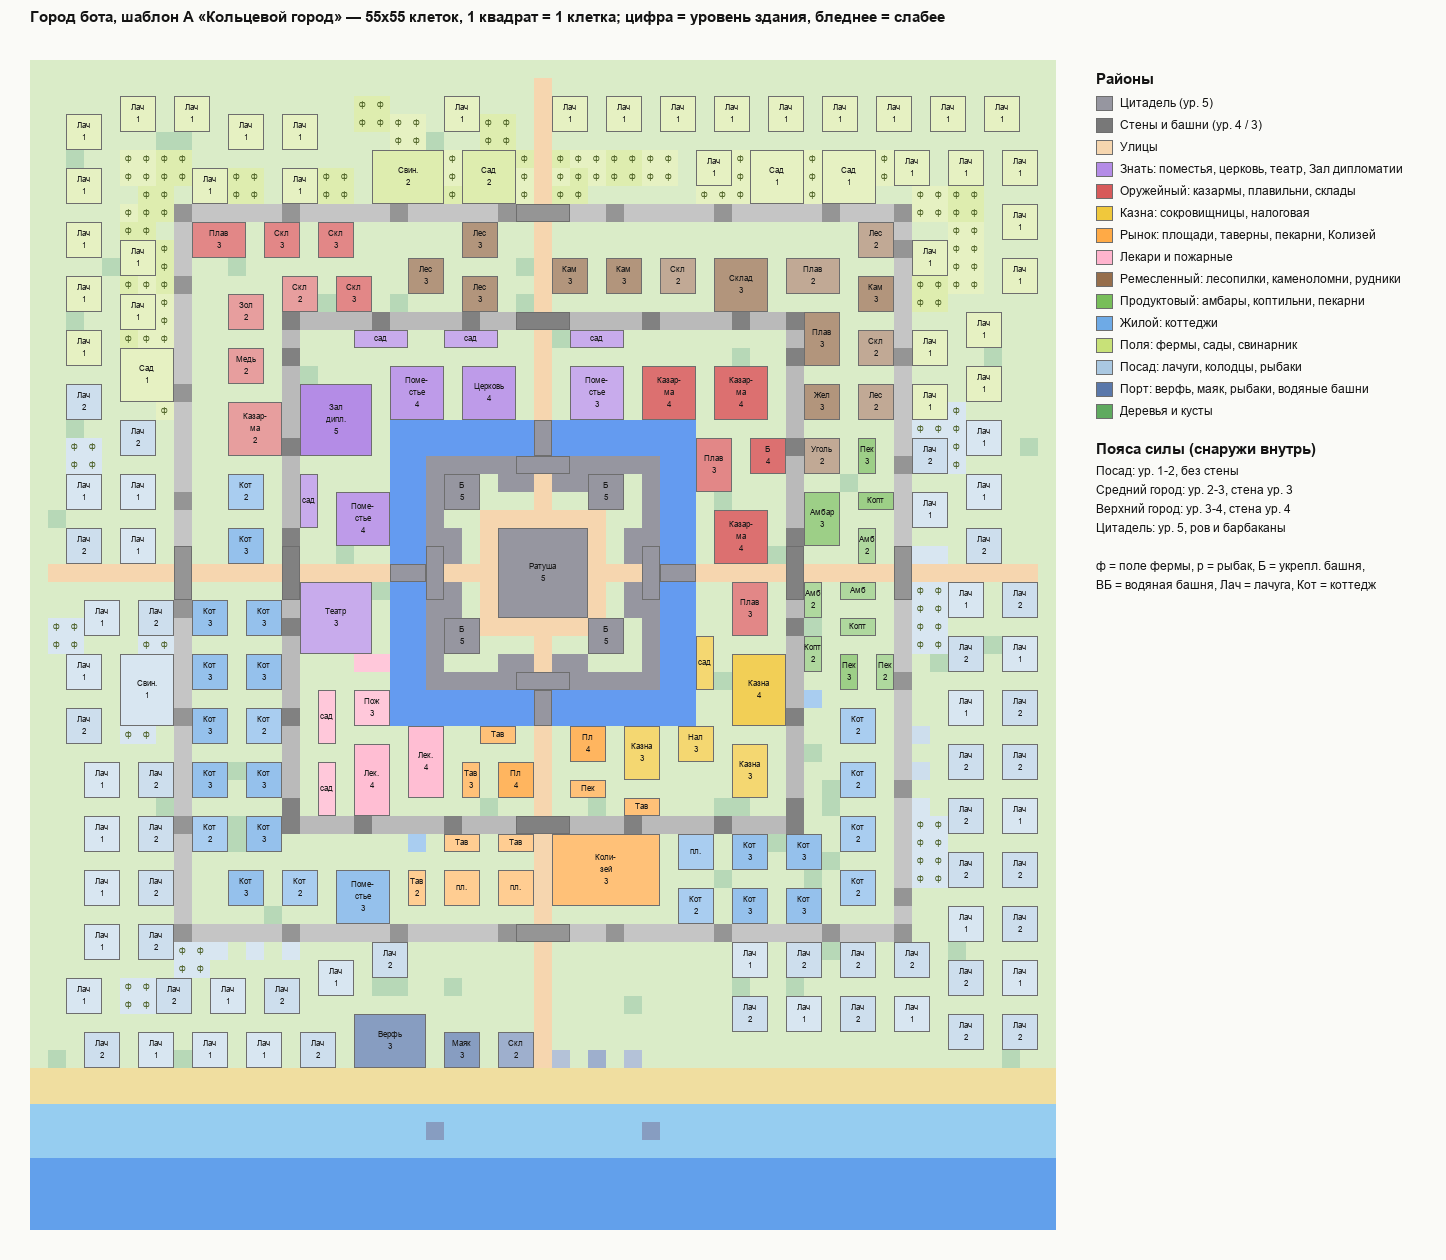
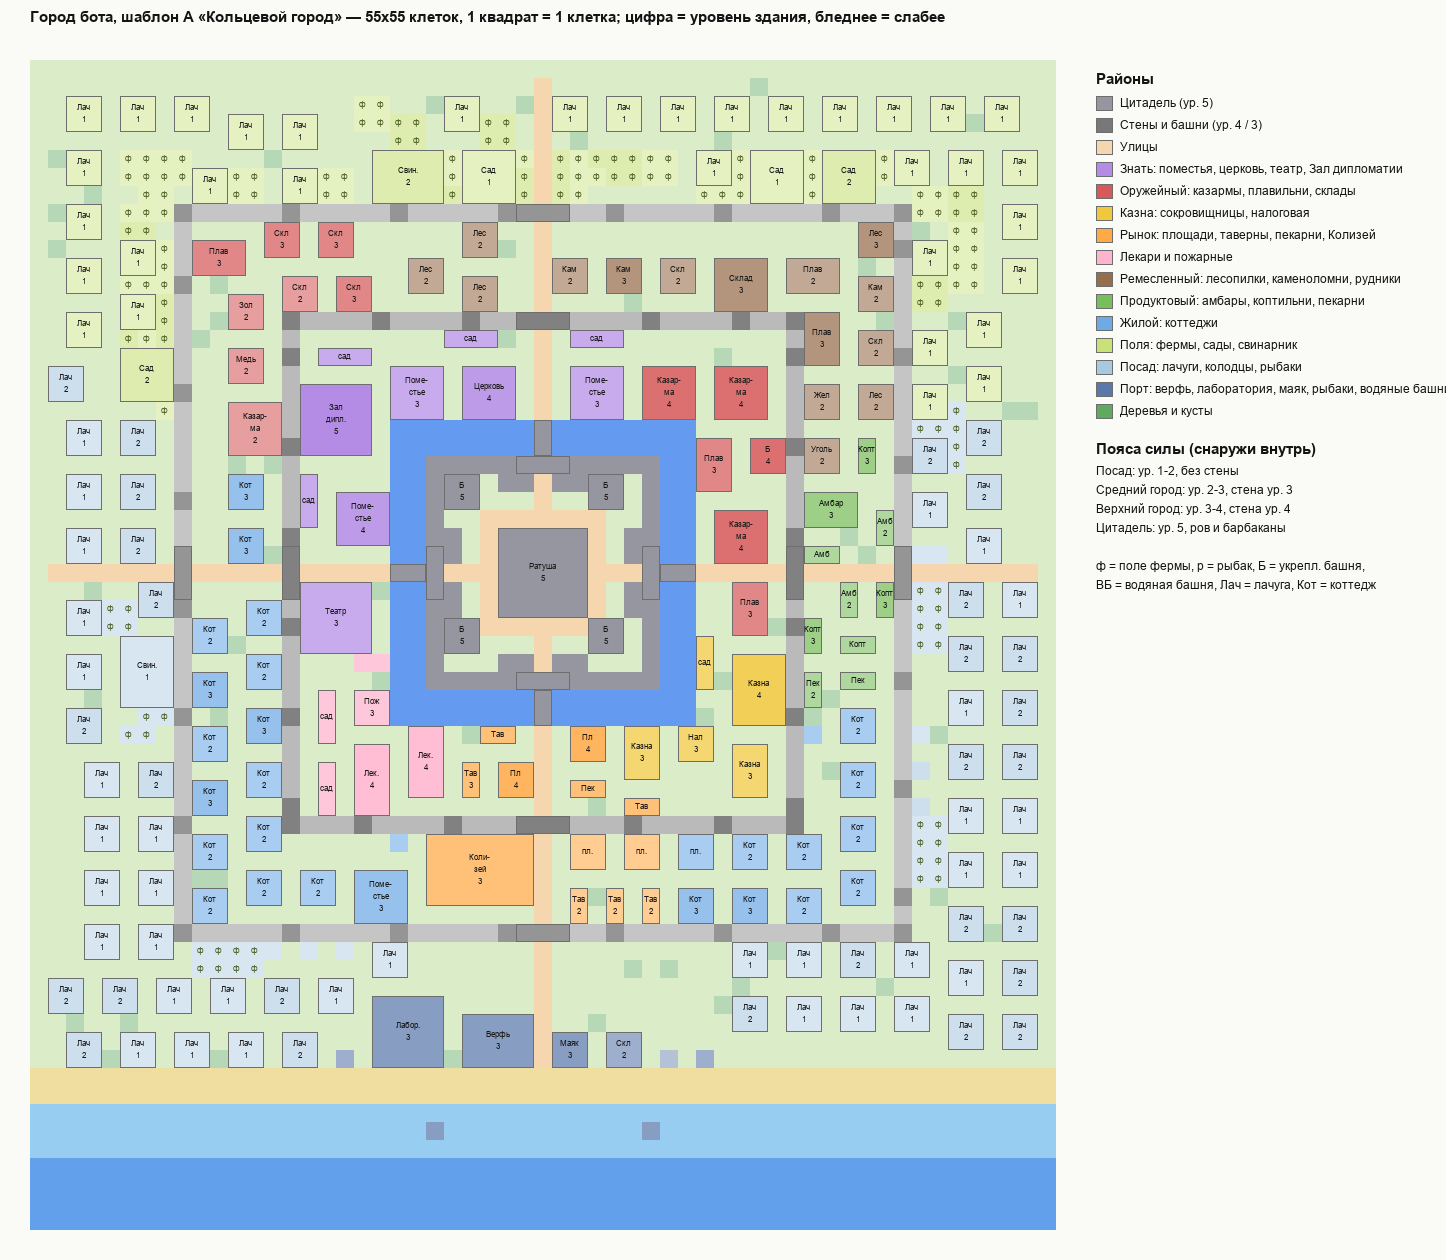
Bot town A: the Laboratory on the shore, in the port (the user)

diff --git a/Design/bot_town_a.py b/Design/bot_town_a.py
@@ -140,7 +140,7 @@ PLAN = {
     ("upper", "S"): ("market", [("TownSquare", 2, (3, 4)), ("Tavern", 2, (3, 3)), ("Baker", 2, (3, 3))]),
     ("upper", "SW"): ("healer", [("HealerHouse", 2, (3, 4)), ("FireBrigade", 1, (3, 3)), ("Well", 2, (3, 3))]),
     ("upper", "W"): ("noble", [("Theater", 1, (3, 4)), ("Manor", 2, (3, 4))]),
-    ("upper", "NW"): ("noble", [("DiplomacyHall", 1, (5, 5)), ("Laboratory", 1, (3, 3))]),
+    ("upper", "NW"): ("noble", [("DiplomacyHall", 1, (5, 5))]),
     ("middle", "N"): ("craft", [("Sawmill", 2, (2, 3)), ("Quarry", 2, (2, 3)), ("Warehouse", 1, (2, 2))]),
     ("middle", "NE"): ("craft", [("IronMine", 1, (2, 3)), ("CoalMine", 1, (2, 3)), ("Smelter", 2, (2, 3)), ("BigWarehouse", 1, (3, 3))]),
     ("middle", "E"): ("food", [("BigGranary", 1, (3, 3)), ("Granary", 2, (2, 2)), ("Smokehouse", 2, (2, 3)), ("Baker", 2, (2, 3))]),
@@ -153,7 +153,7 @@ PLAN = {
     ("posad", "NE"): ("fields", [("Orchard", 2, (1, 2)), ("Farm", 10, (1, 1)), ("Hovel", 2, (1, 1))]),
     ("posad", "E"): ("posad", [("Hovel", 7, (1, 2)), ("Well", 2, (1, 1)), ("Farm", 6, (1, 1))]),
     ("posad", "SE"): ("posad", [("Hovel", 5, (1, 2)), ("FisherHut", 3, (1, 2))]),
-    ("posad", "S"): ("port", [("Shipyard", 1, (3, 3)), ("Lighthouse", 1, (3, 3)), ("Warehouse", 1, (2, 2)), ("FisherHut", 3, (1, 2))]),
+    ("posad", "S"): ("port", [("Laboratory", 1, (3, 3)), ("Shipyard", 1, (3, 3)), ("Lighthouse", 1, (3, 3)), ("Warehouse", 1, (2, 2)), ("FisherHut", 3, (1, 2))]),
     ("posad", "SW"): ("posad", [("Hovel", 5, (1, 2)), ("FisherHut", 2, (1, 1)), ("Well", 1, (1, 1))]),
     ("posad", "W"): ("posad", [("Hovel", 7, (1, 2)), ("PigFarm", 1, (1, 1)), ("Farm", 4, (1, 1))]),
     ("posad", "NW"): ("fields", [("Farm", 14, (1, 2)), ("Orchard", 1, (1, 2)), ("Hovel", 2, (1, 1))]),
@@ -280,7 +280,7 @@ DISTRICT = {
     "market": ((255, 170, 70), "Рынок: площади, таверны, пекарни, Колизей"), "healer": ((255, 180, 205), "Лекари и пожарные"),
     "craft": ((150, 110, 75), "Ремесленный: лесопилки, каменоломни, рудники"), "food": ((120, 190, 90), "Продуктовый: амбары, коптильни, пекарни"),
     "living": ((110, 170, 230), "Жилой: коттеджи"), "fields": ((200, 225, 120), "Поля: фермы, сады, свинарник"),
-    "posad": ((170, 200, 225), "Посад: лачуги, колодцы, рыбаки"), "port": ((90, 120, 170), "Порт: верфь, маяк, рыбаки, водяные башни"),
+    "posad": ((170, 200, 225), "Посад: лачуги, колодцы, рыбаки"), "port": ((90, 120, 170), "Порт: верфь, лаборатория, маяк, рыбаки, водяные башни"),
     "decor": ((95, 170, 95), "Деревья и кусты"),
 }
 SHORT = {"Castle": "Ратуша", "DiplomacyHall": "Зал\nдипл.", "Barracks": "Казар-\nма", "Shipyard": "Верфь", "Lighthouse": "Маяк",

diff --git a/Design/features/bot.md b/Design/features/bot.md
@@ -194,6 +194,7 @@ Proposed templates:
   - citadel lvl 5 with moat and FortifiedGates.
 - Districts by 8 sectors per ring (PLAN table), plus fillers (FILL).
 - About 940 pieces against 547 in v2: a mobile concern, to measure.
+- The Laboratory stands on the shore in the port (user, 2026-11-05).
 - Not in the game yet; waiting for the user's review.
 
 ## Traps (war)
